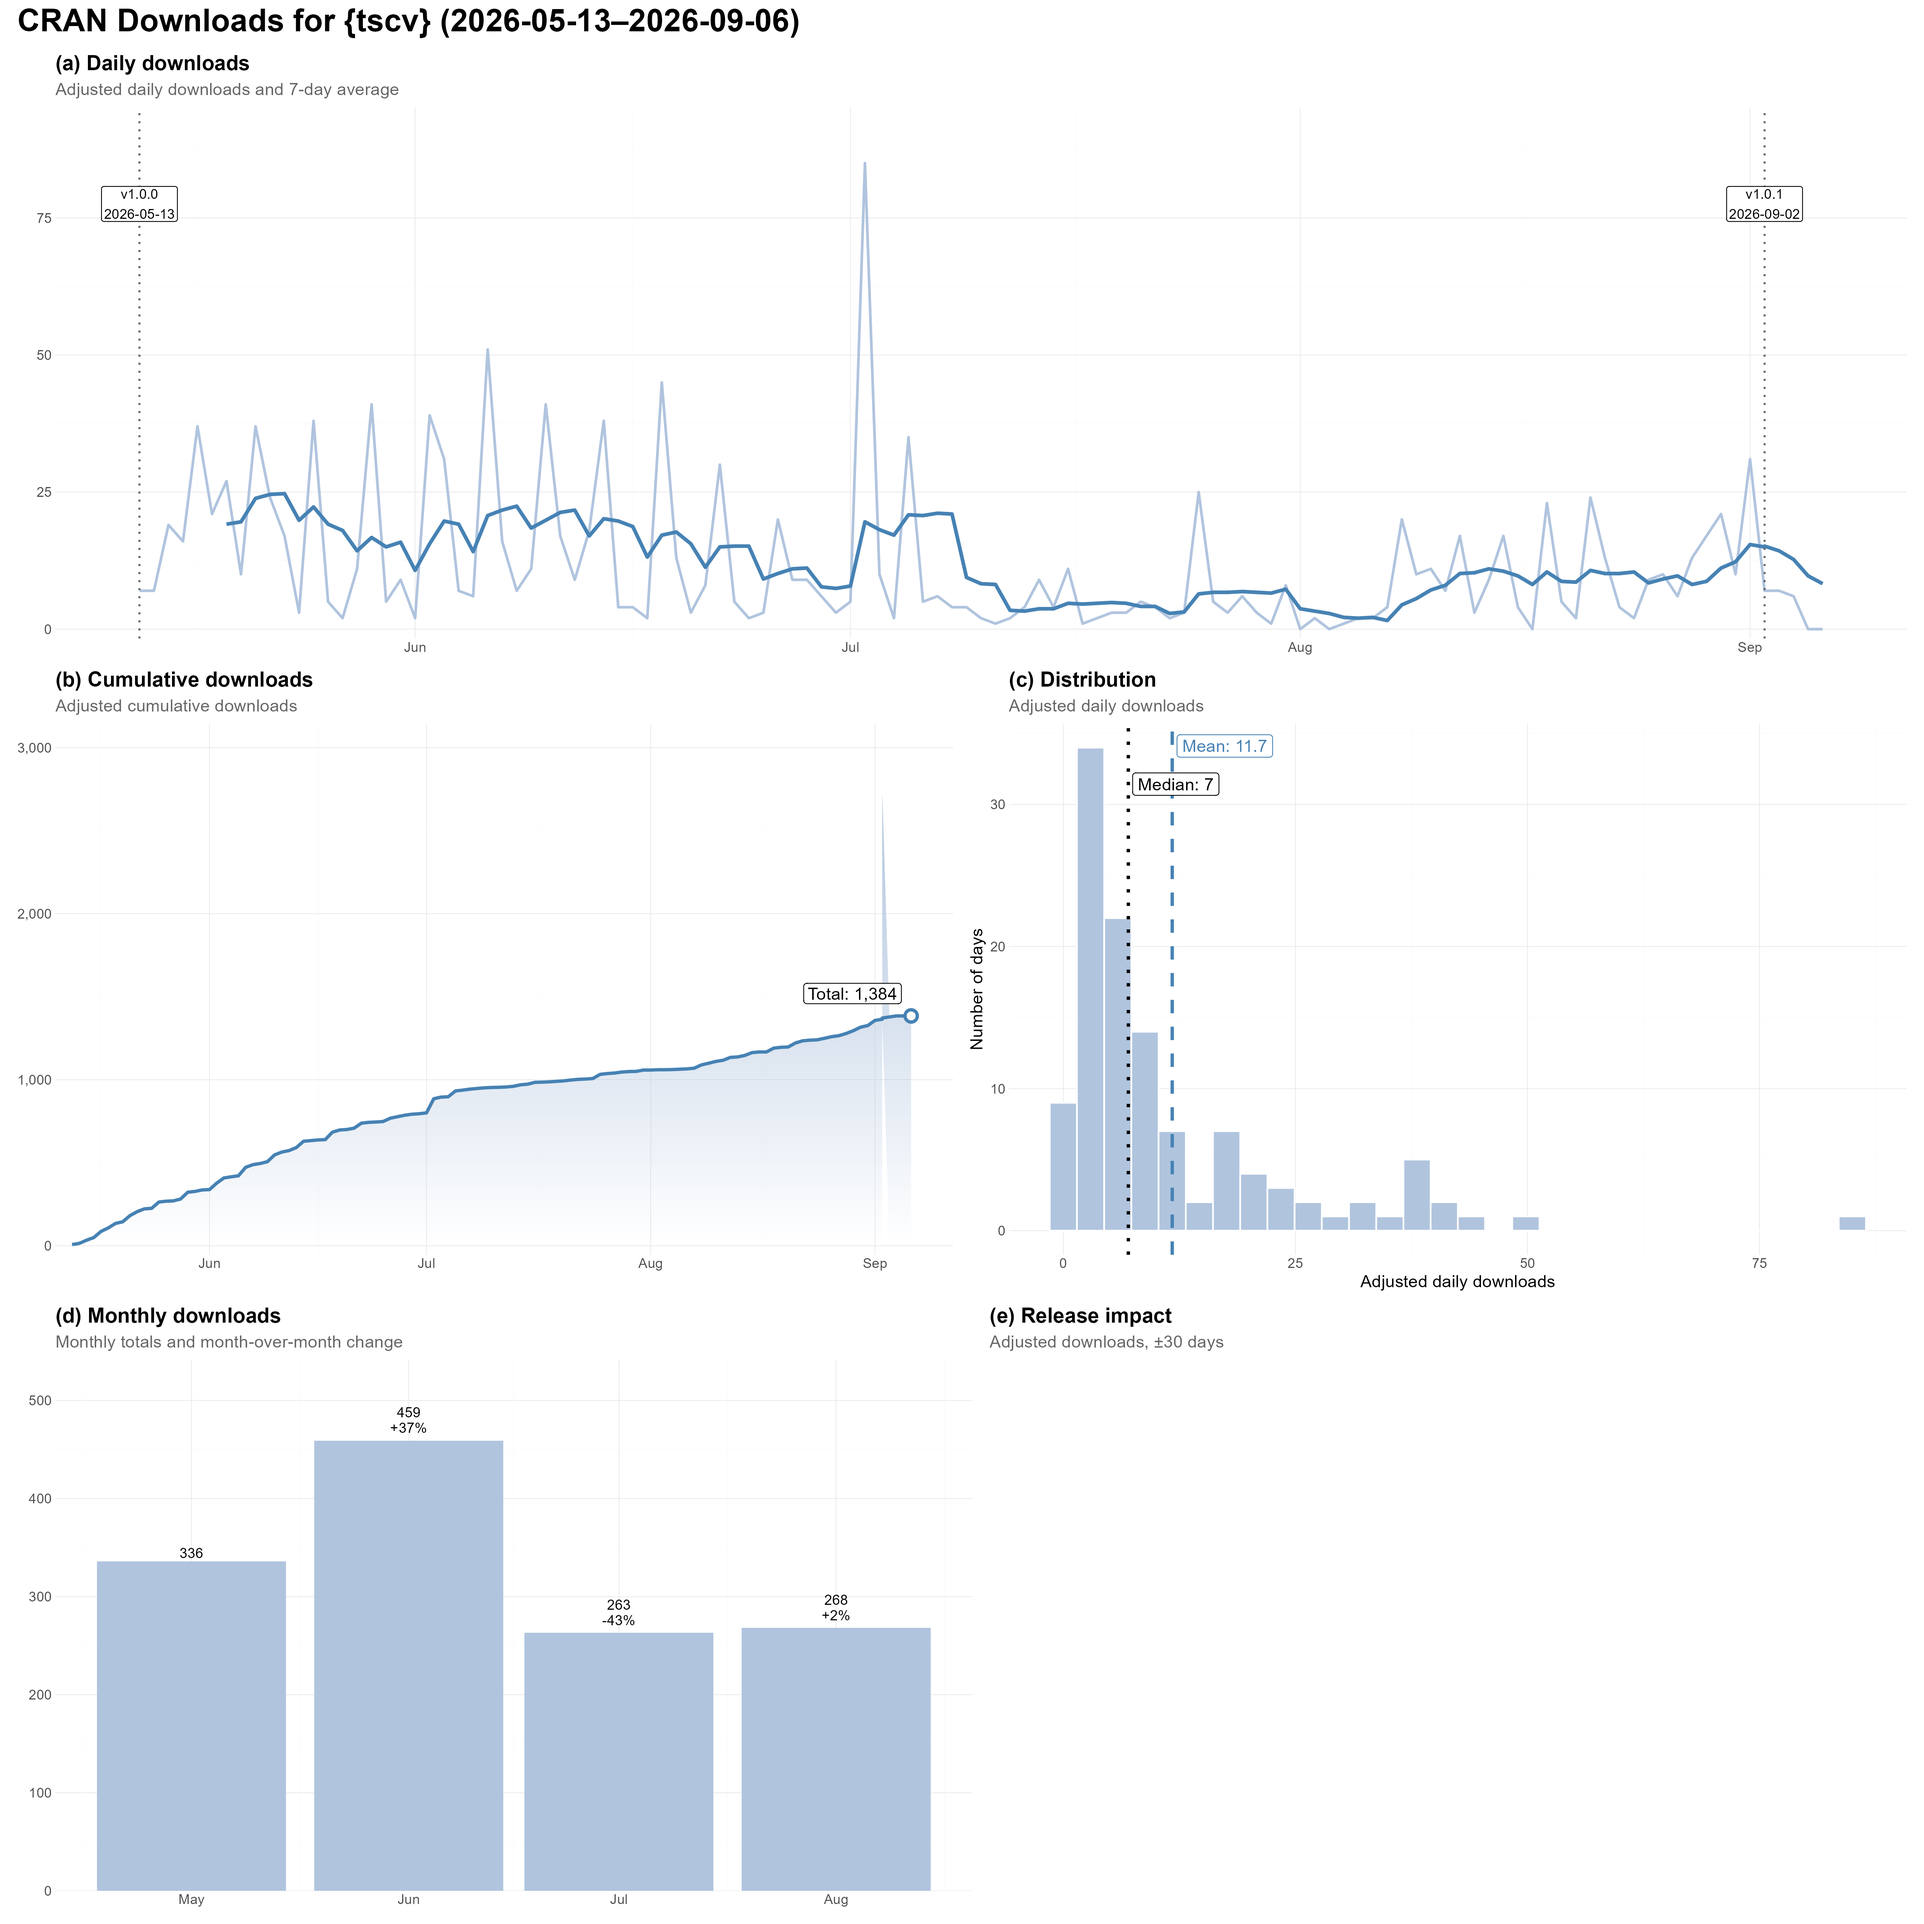
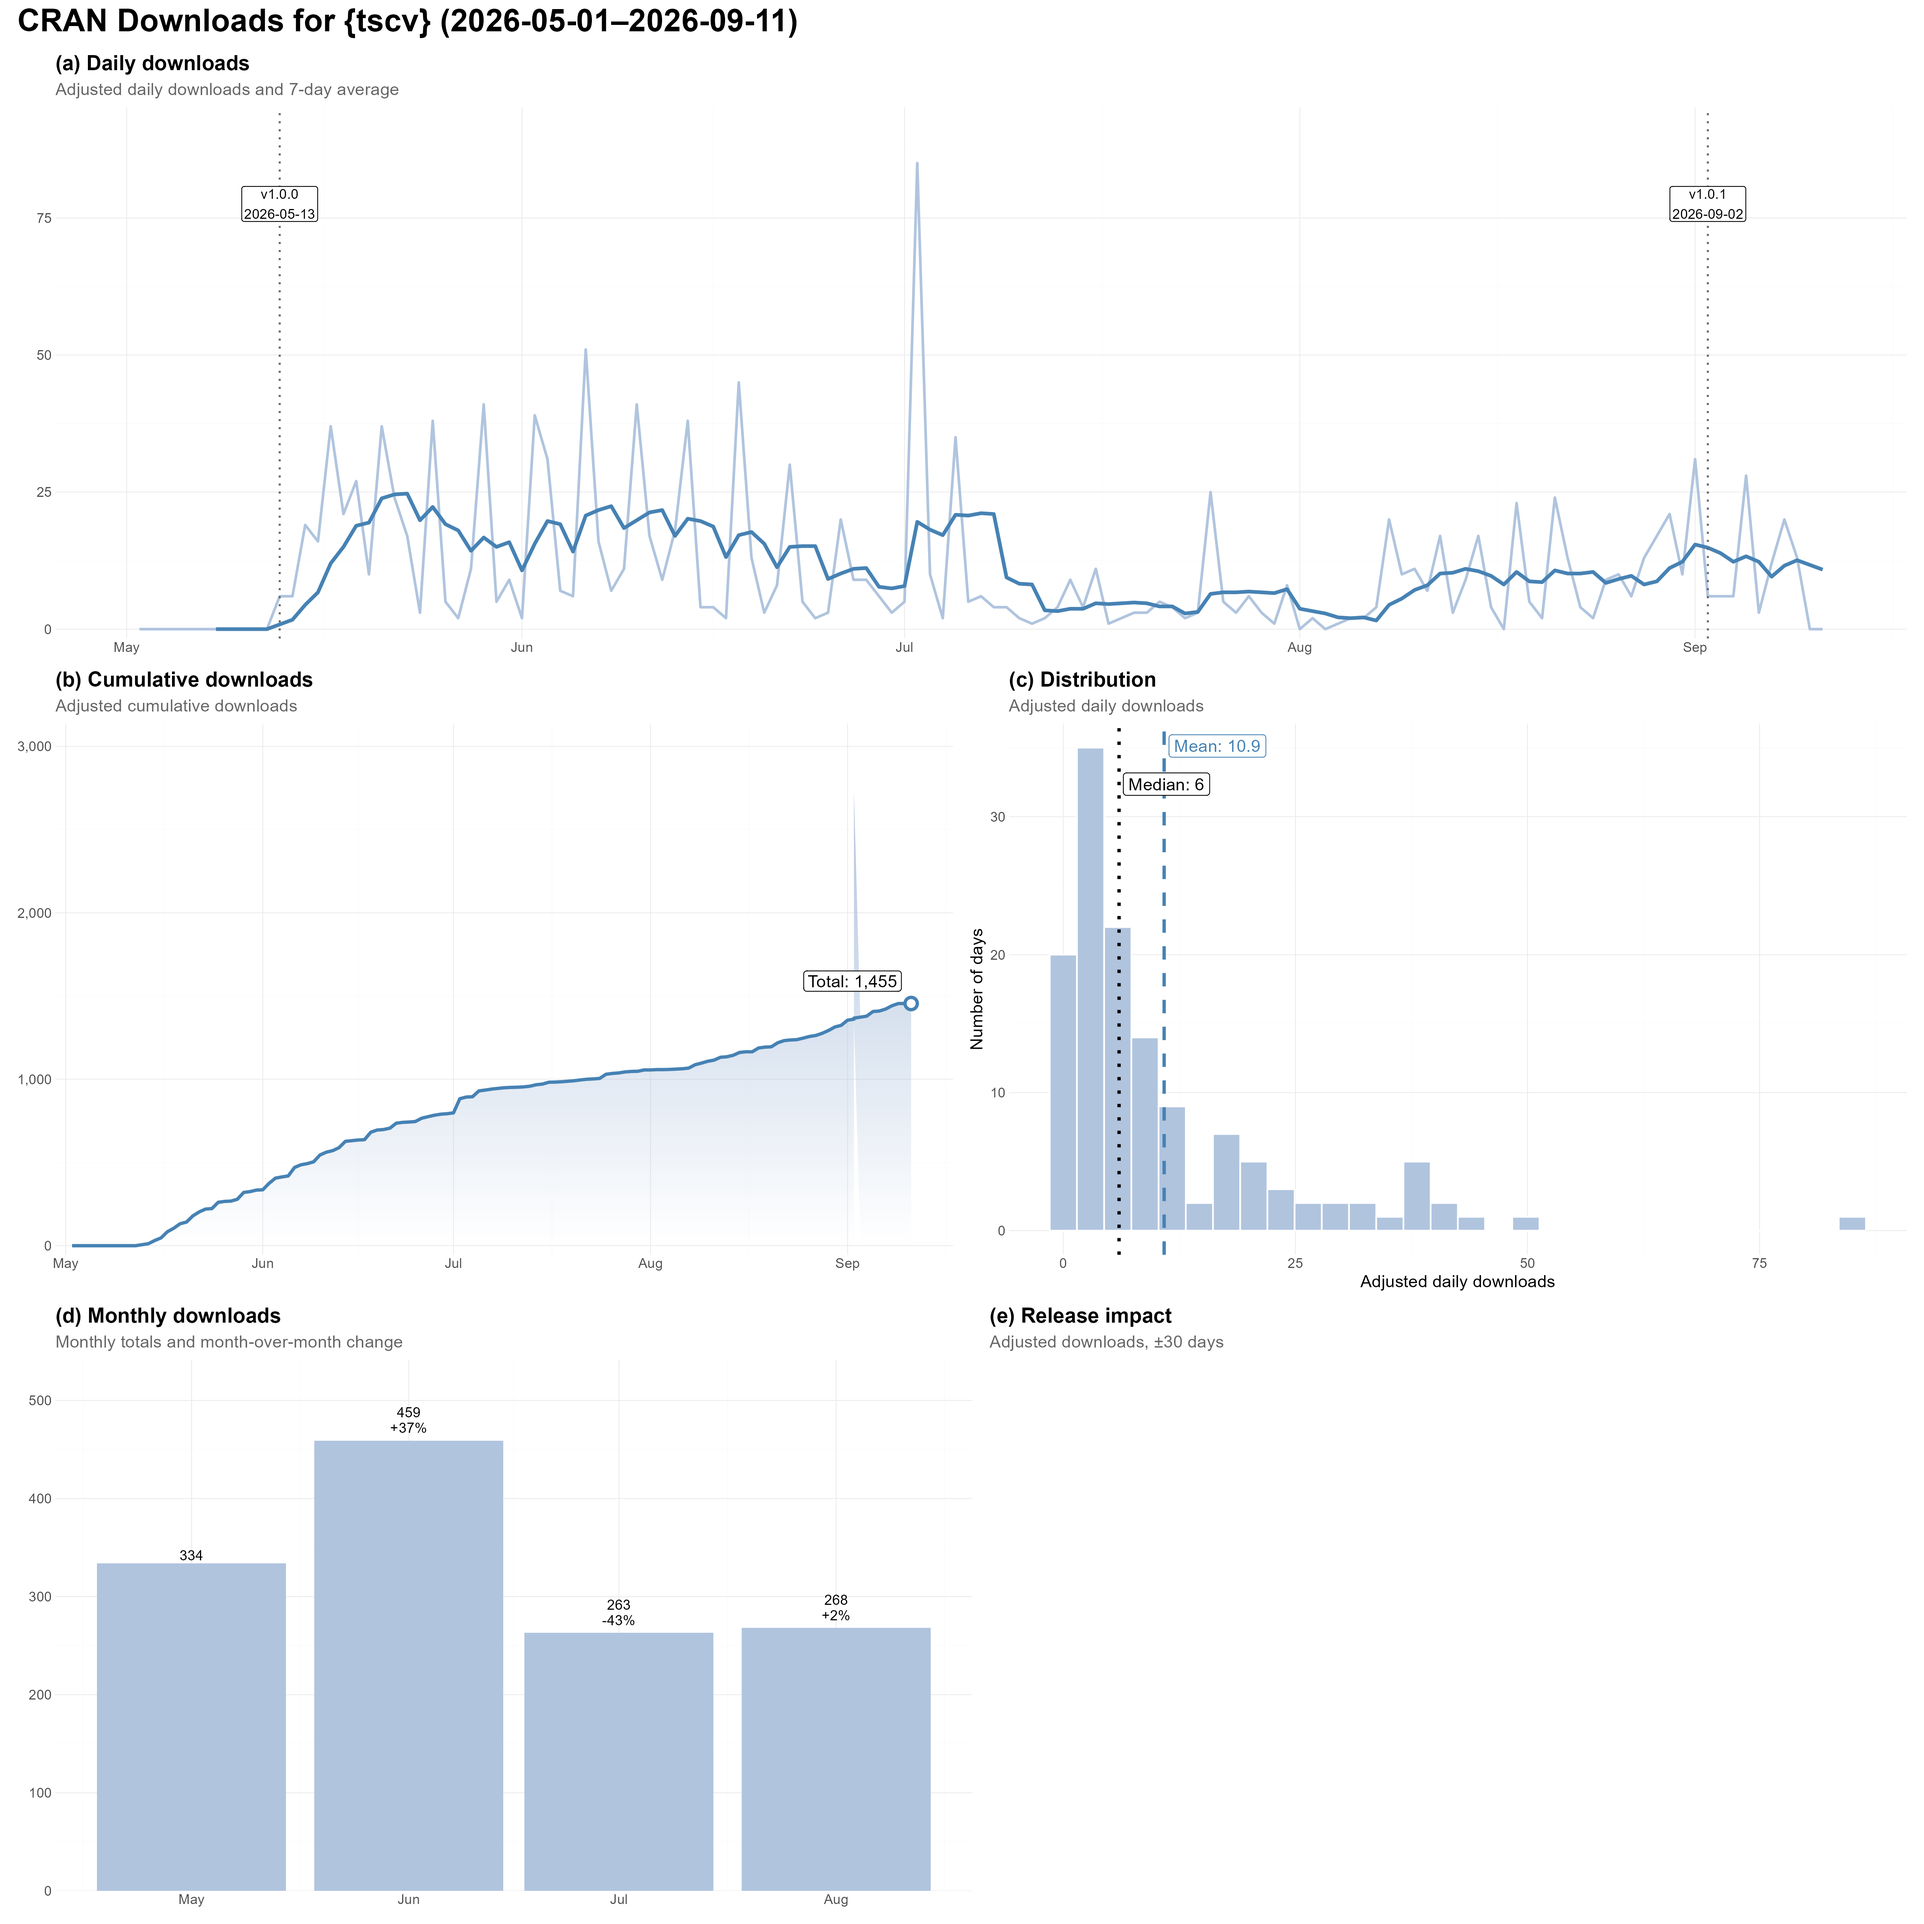
Update

diff --git a/README.md b/README.md
@@ -16,6 +16,10 @@ resulting statistics should nevertheless be understood as estimates
 based on downloads recorded by the RStudio CRAN mirror rather than as
 complete counts across all CRAN mirrors.
 
+## {echos}
+
 <img src="figure_downloads_echos.png" alt="" width="100%" style="display: block; margin: auto;" />
+
+## {tscv}
 
 <img src="figure_downloads_tscv.png" alt="" width="100%" style="display: block; margin: auto;" />
